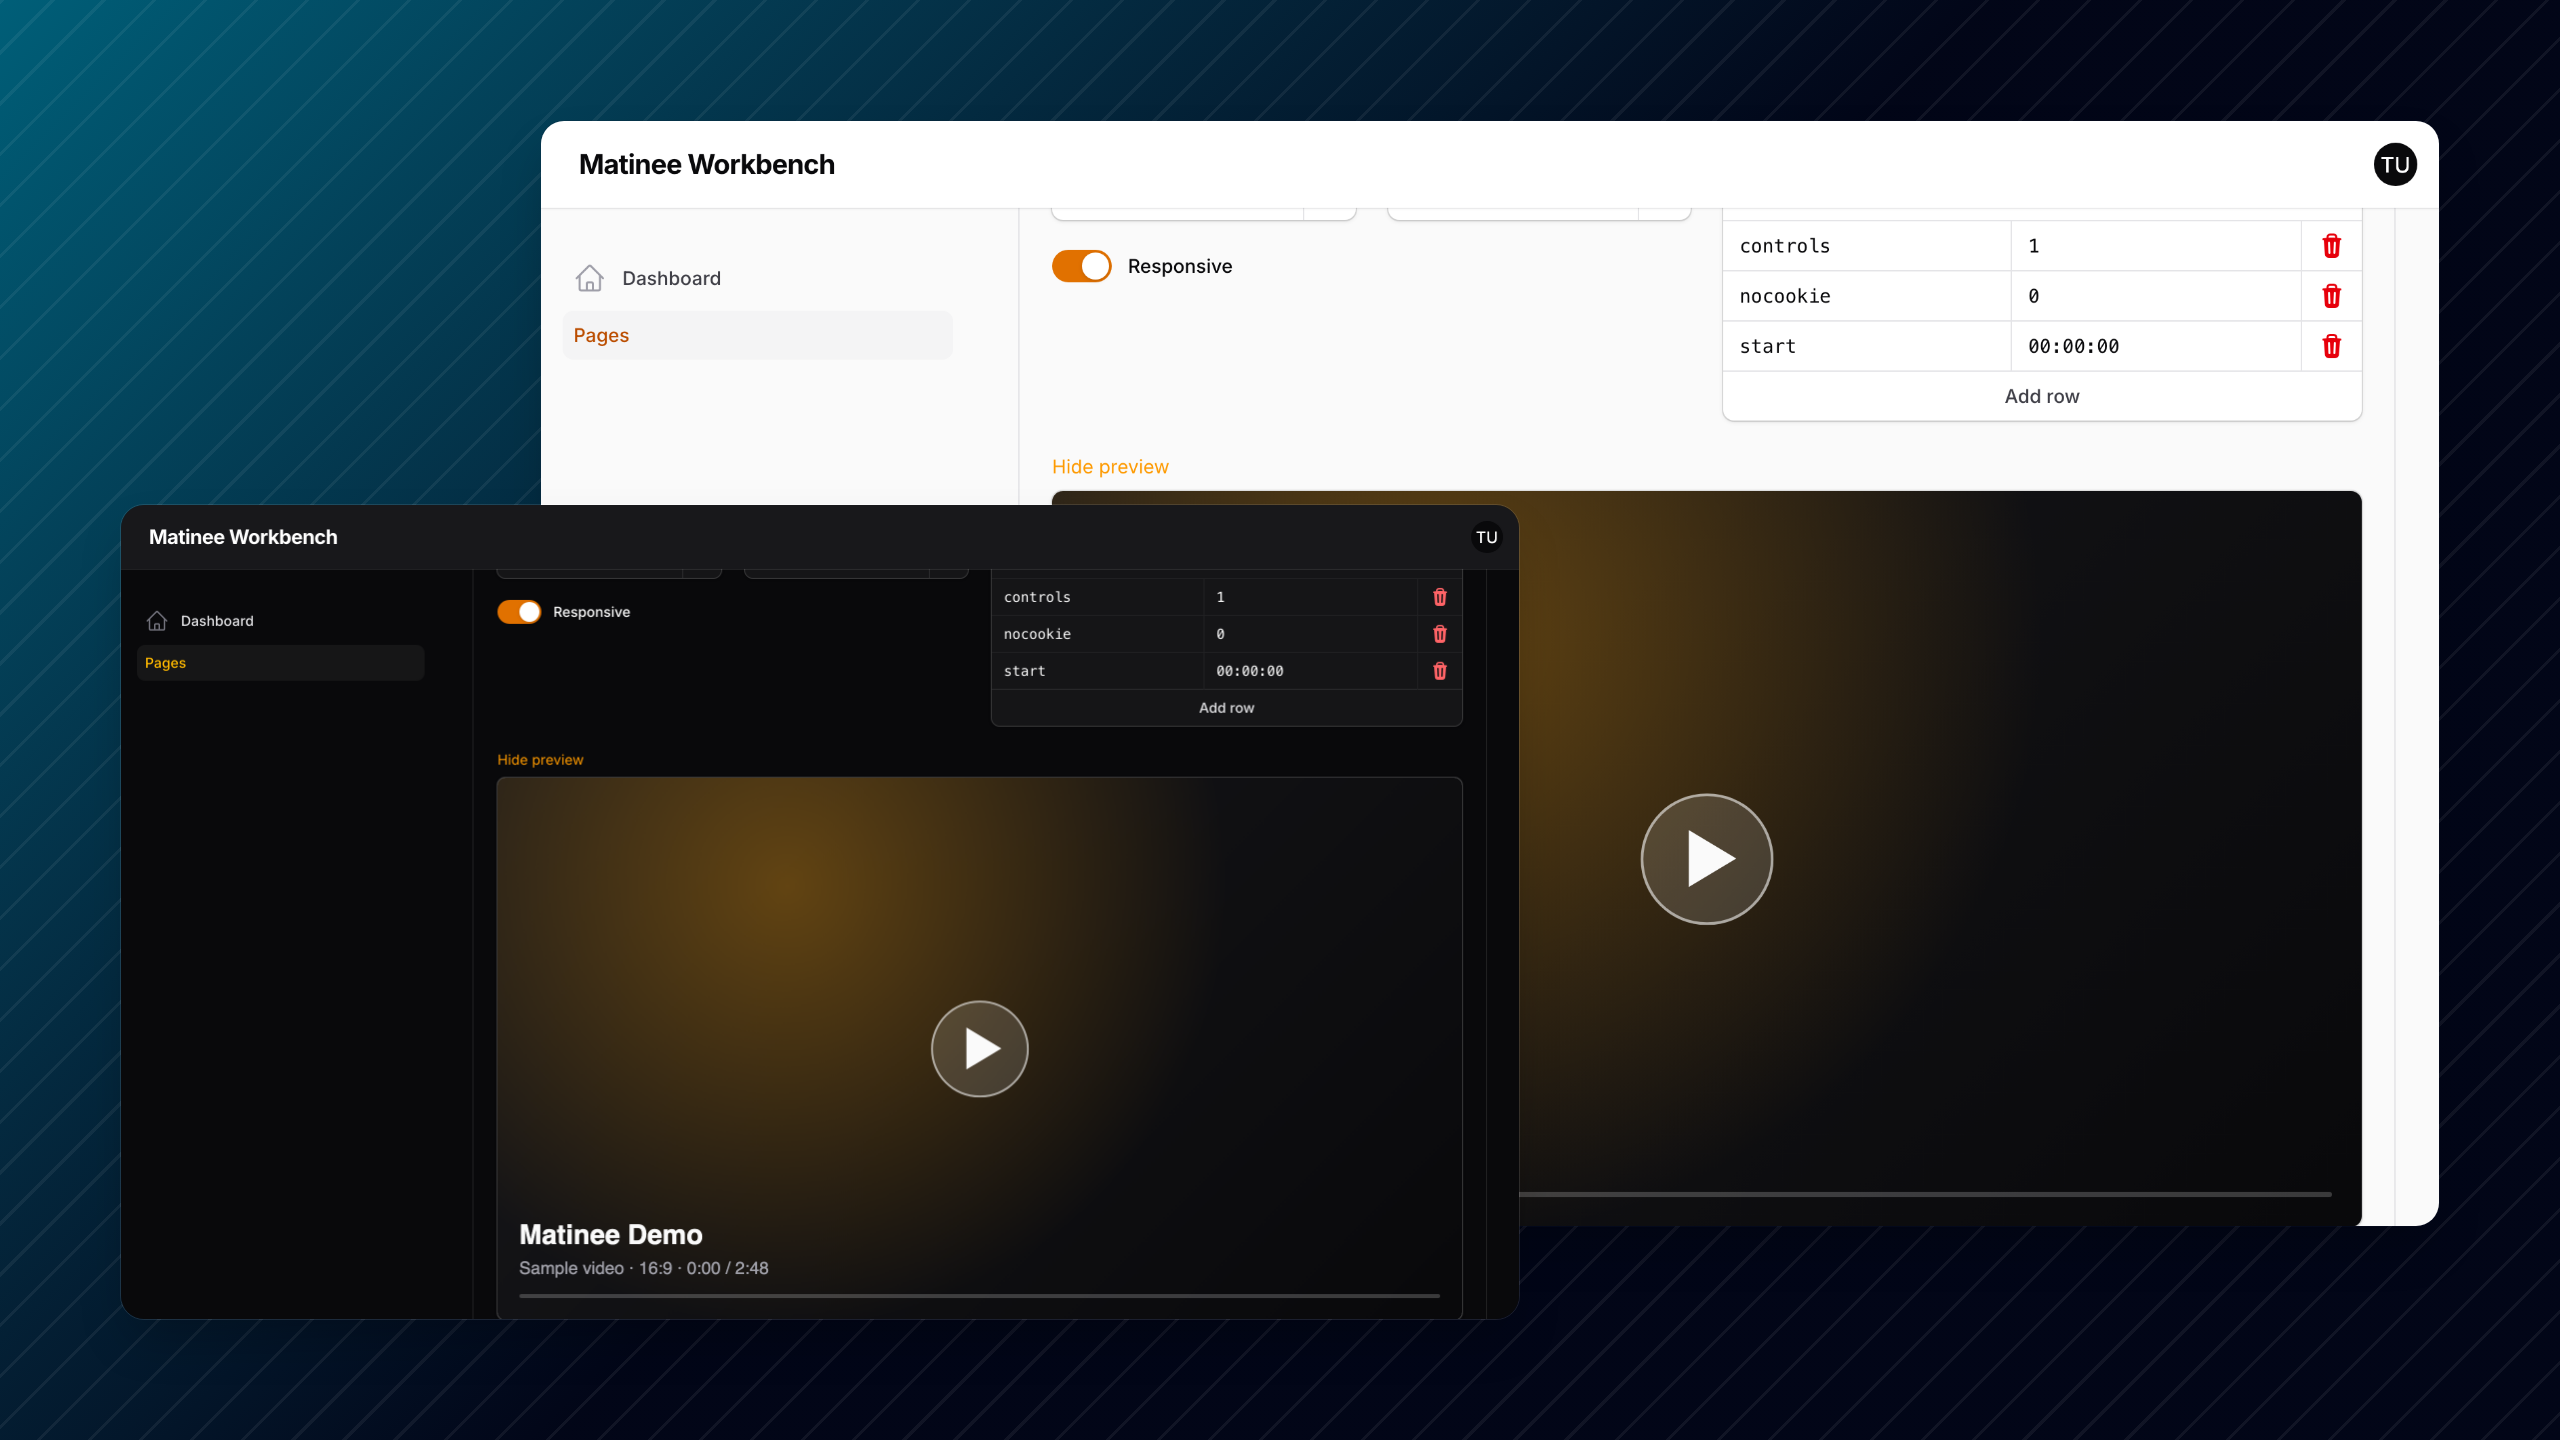
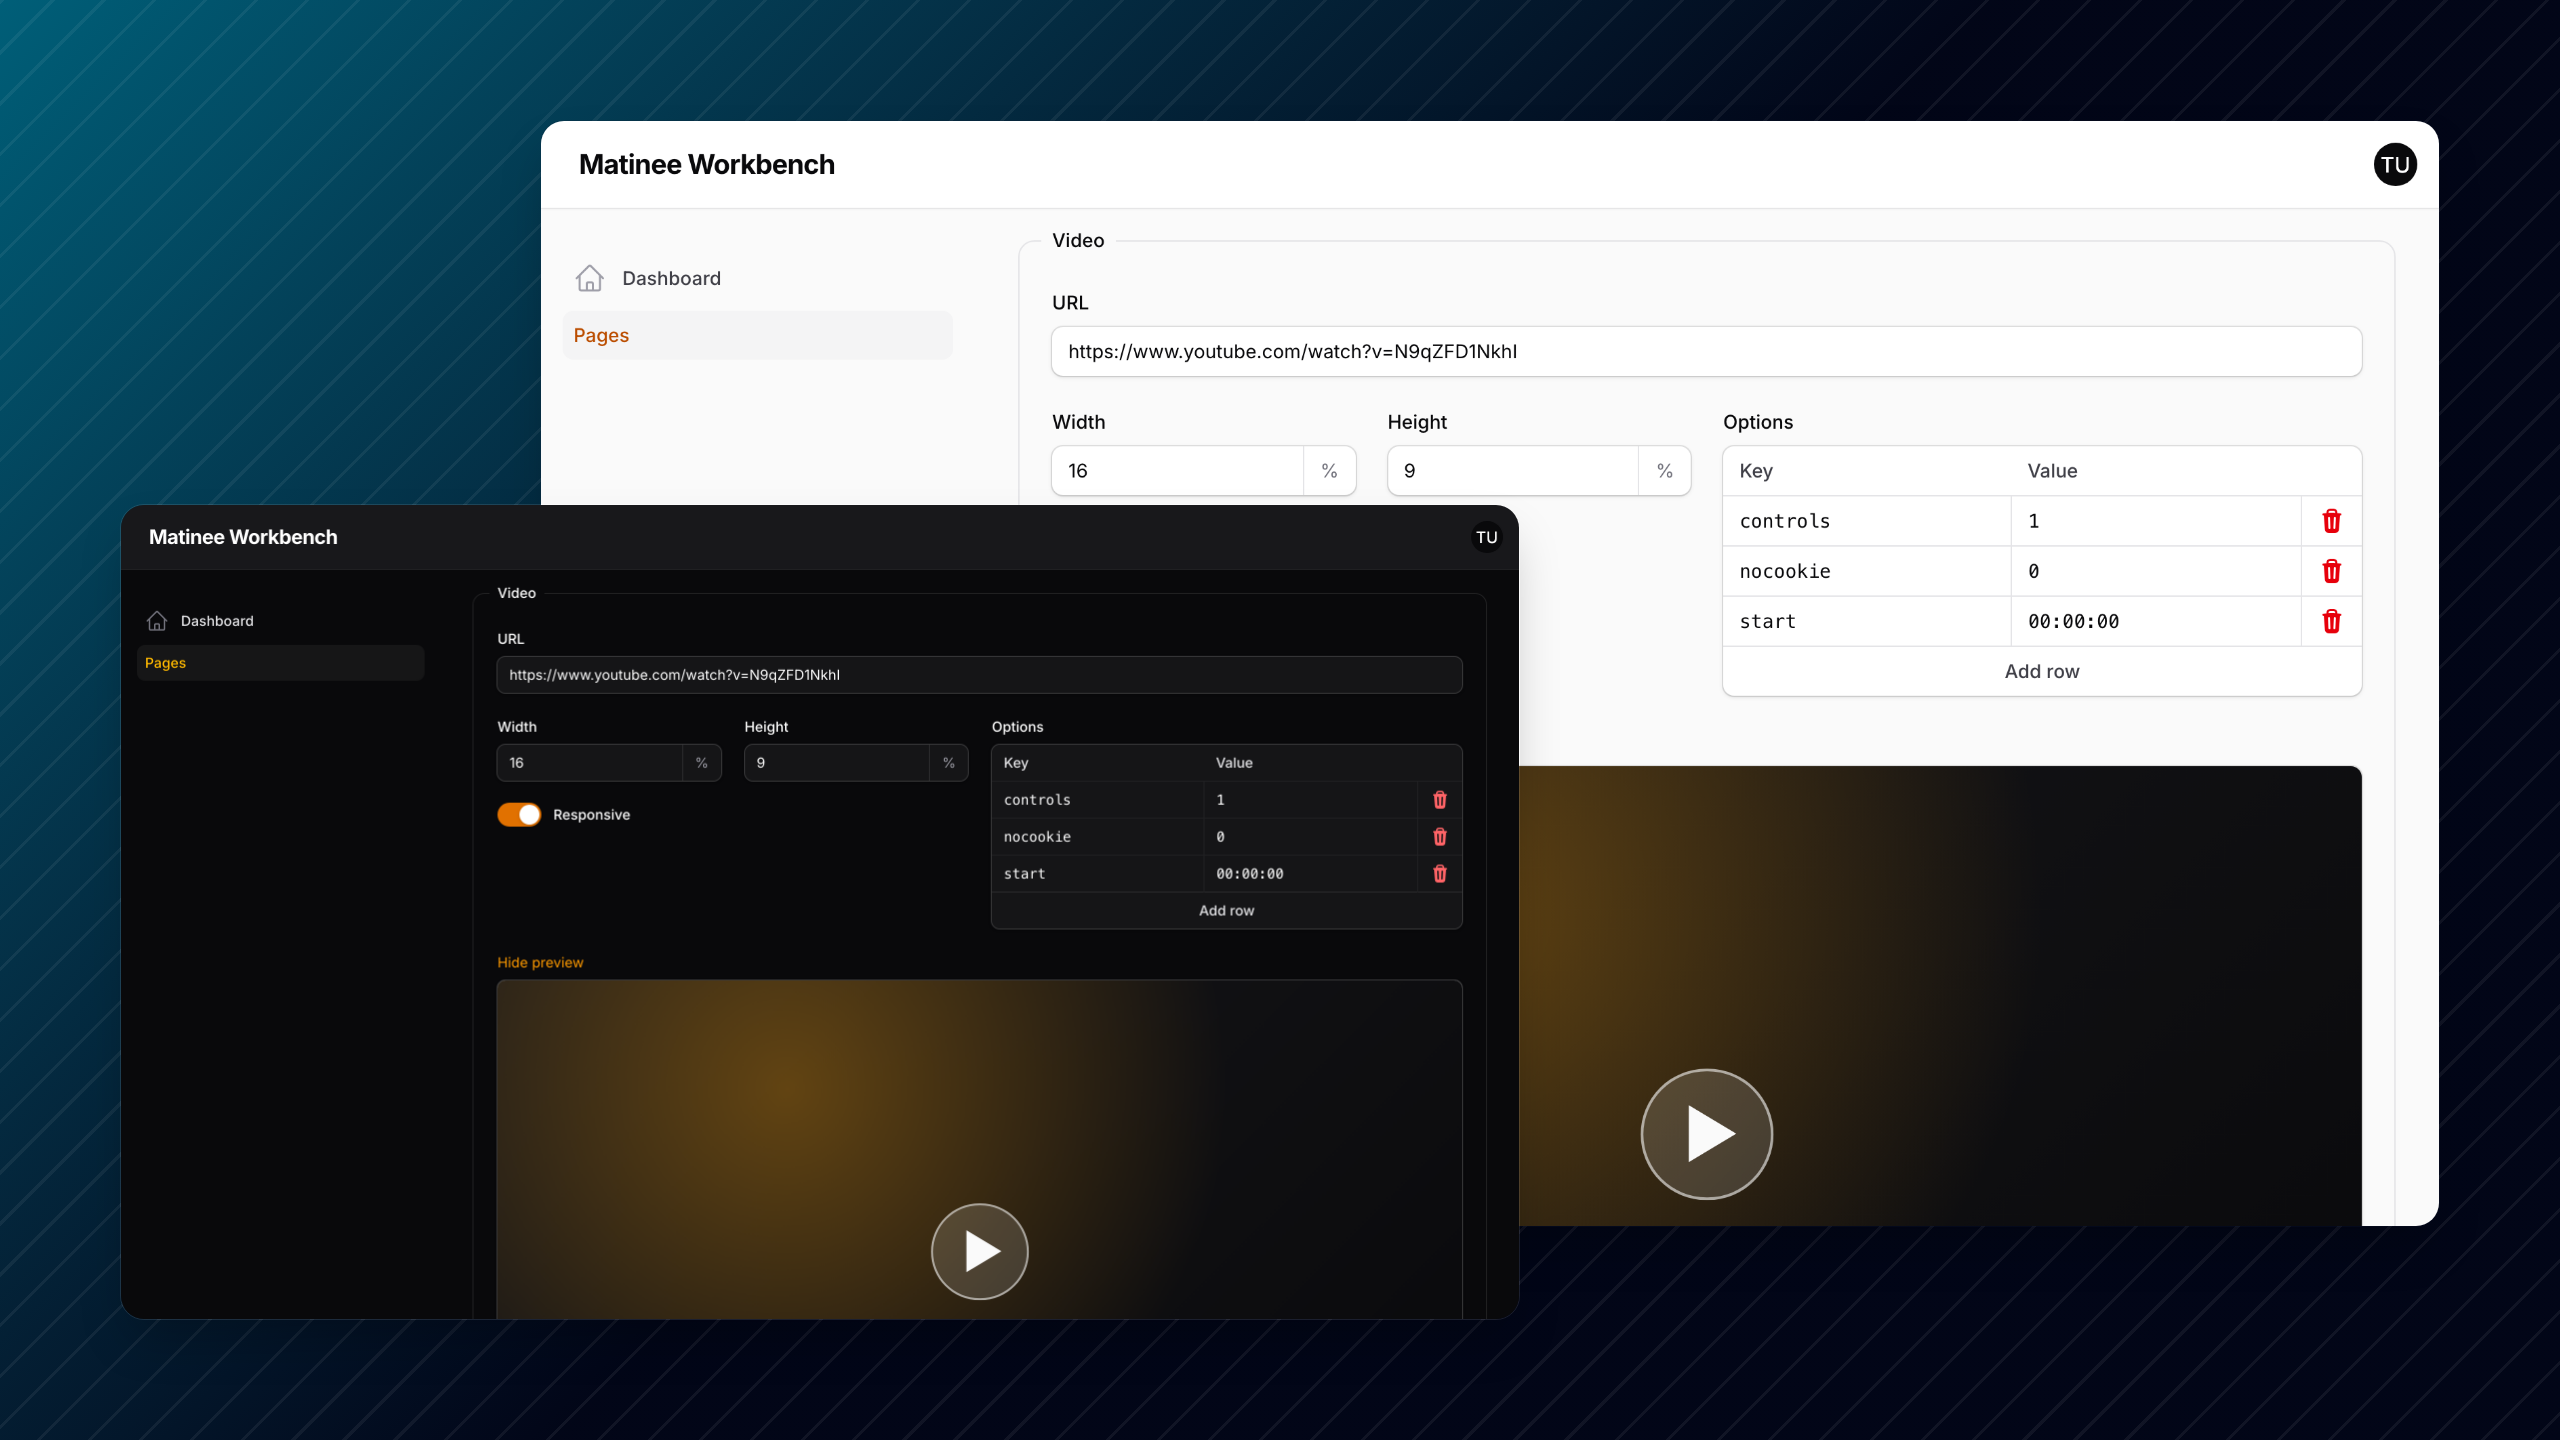
docs: show a fixed-size embed and frame the cards on the field

diff --git a/focus.php b/focus.php
@@ -6,6 +6,7 @@ use Awcodes\Focus\Card;
 use Awcodes\Focus\Enums\Size;
 use Awcodes\Focus\Screenshot;
 use Awcodes\Focus\ScreenshotSuite;
+use Playwright\Page\PageInterface;
 
 /*
  * Documentation screenshots for Matinée, generated with awcodes/focus from the Workbench (run `composer build`
@@ -42,13 +43,10 @@ return ScreenshotSuite::make()
                 ->waitFor('[data-focus="poster"]'))
             ->focus('[data-focus="video-field"]'),
 
-        // The Vimeo page is stored with `responsive` false, but the field hydrates a false toggle as true, so the
-        // toggle is switched off the way an editor would, which sets 640x480 pixels.
+        // The Vimeo page is stored with `responsive` false at 640x480 pixels.
         Screenshot::make('fixed-size')
             ->viewportSize(1280, 1400)
             ->visit('/admin/pages/2/edit')
-            ->click('[data-focus="video-field"] button[role="switch"]')
-            ->waitFor('[data-focus="video-field"] button[role="switch"][aria-checked="false"]')
             ->within('[data-focus="video-field"] iframe', fn (Screenshot $screenshot) => $screenshot
                 ->waitFor('[data-focus="poster"]'))
             ->focus('[data-focus="video-field"]'),
@@ -60,14 +58,31 @@ return ScreenshotSuite::make()
                 ->waitFor('[data-focus="poster"]'))
             ->focus('[data-focus="embed-page"]'),
 
+        // A fixed-size embed on the same front-end page keeps its stored pixel size instead of filling the width.
+        Screenshot::make('embed-fixed')
+            ->visit('/pages/fixed-size-vimeo-embed')
+            ->within('[data-focus="embed-page"] iframe', fn (Screenshot $screenshot) => $screenshot
+                ->waitFor('[data-focus="poster"]'))
+            ->focus('[data-focus="embed-page"]'),
+
         // The share-image source, shaped to the card templates' screenshot slots. The two-up templates show it dark
-        // in slot 1 and light in slot 2, so it is captured in both themes.
+        // in slot 1 and light in slot 2, so it is captured in both themes. The page is scrolled so the top of the
+        // field sits just below the sticky top bar, which keeps the URL, size and options in frame.
         Screenshot::make('card-field')
             ->viewportSize(...$card)
             ->visit('/admin/pages/1/edit')
             ->within('[data-focus="video-field"] iframe', fn (Screenshot $screenshot) => $screenshot
                 ->waitFor('[data-focus="poster"]'))
-            ->scrollIntoView('[data-focus="video-field"] iframe')
+            ->ready(function (PageInterface $page): void {
+                $page->evaluate(<<<'JS'
+                    () => {
+                        const field = document.querySelector('[data-focus="video-field"]');
+                        const topbar = document.querySelector('.fi-topbar-ctn');
+
+                        window.scrollTo(0, field.getBoundingClientRect().top + window.scrollY - topbar.offsetHeight - 12);
+                    }
+                    JS);
+            })
             ->viewport(),
     ])
     ->cardTemplates('https://github.com/awcodes/focus-templates/tree/v2.1.0/dist')

diff --git a/docs/usage.md b/docs/usage.md
@@ -86,7 +86,10 @@ Any extra attributes you put on the component are forwarded to the underlying `<
 />
 ```
 
-When `responsive` is true, the component sizes the iframe to 100% width and derives its `aspect-ratio` from the stored width and height — so `16` and `9` mean a 16:9 ratio rather than 16 by 9 pixels. When `responsive` is false, the stored width and height are used as pixel dimensions.
+When `responsive` is true, the component sizes the iframe to 100% width and derives its `aspect-ratio` from the stored width and height — so `16` and `9` mean a 16:9 ratio rather than 16 by 9 pixels. When `responsive` is false, the stored width and height are used as pixel dimensions:
+
+![A front-end page rendering a stored fixed-size Vimeo embed with the embed component at 640 by 480 pixels, narrower than the page title's column](assets/embed-fixed-light.png#gh-light-mode-only)
+![A front-end page rendering a stored fixed-size Vimeo embed with the embed component at 640 by 480 pixels, narrower than the page title's column](assets/embed-fixed-dark.png#gh-dark-mode-only)
 
 ### The stored data
 
